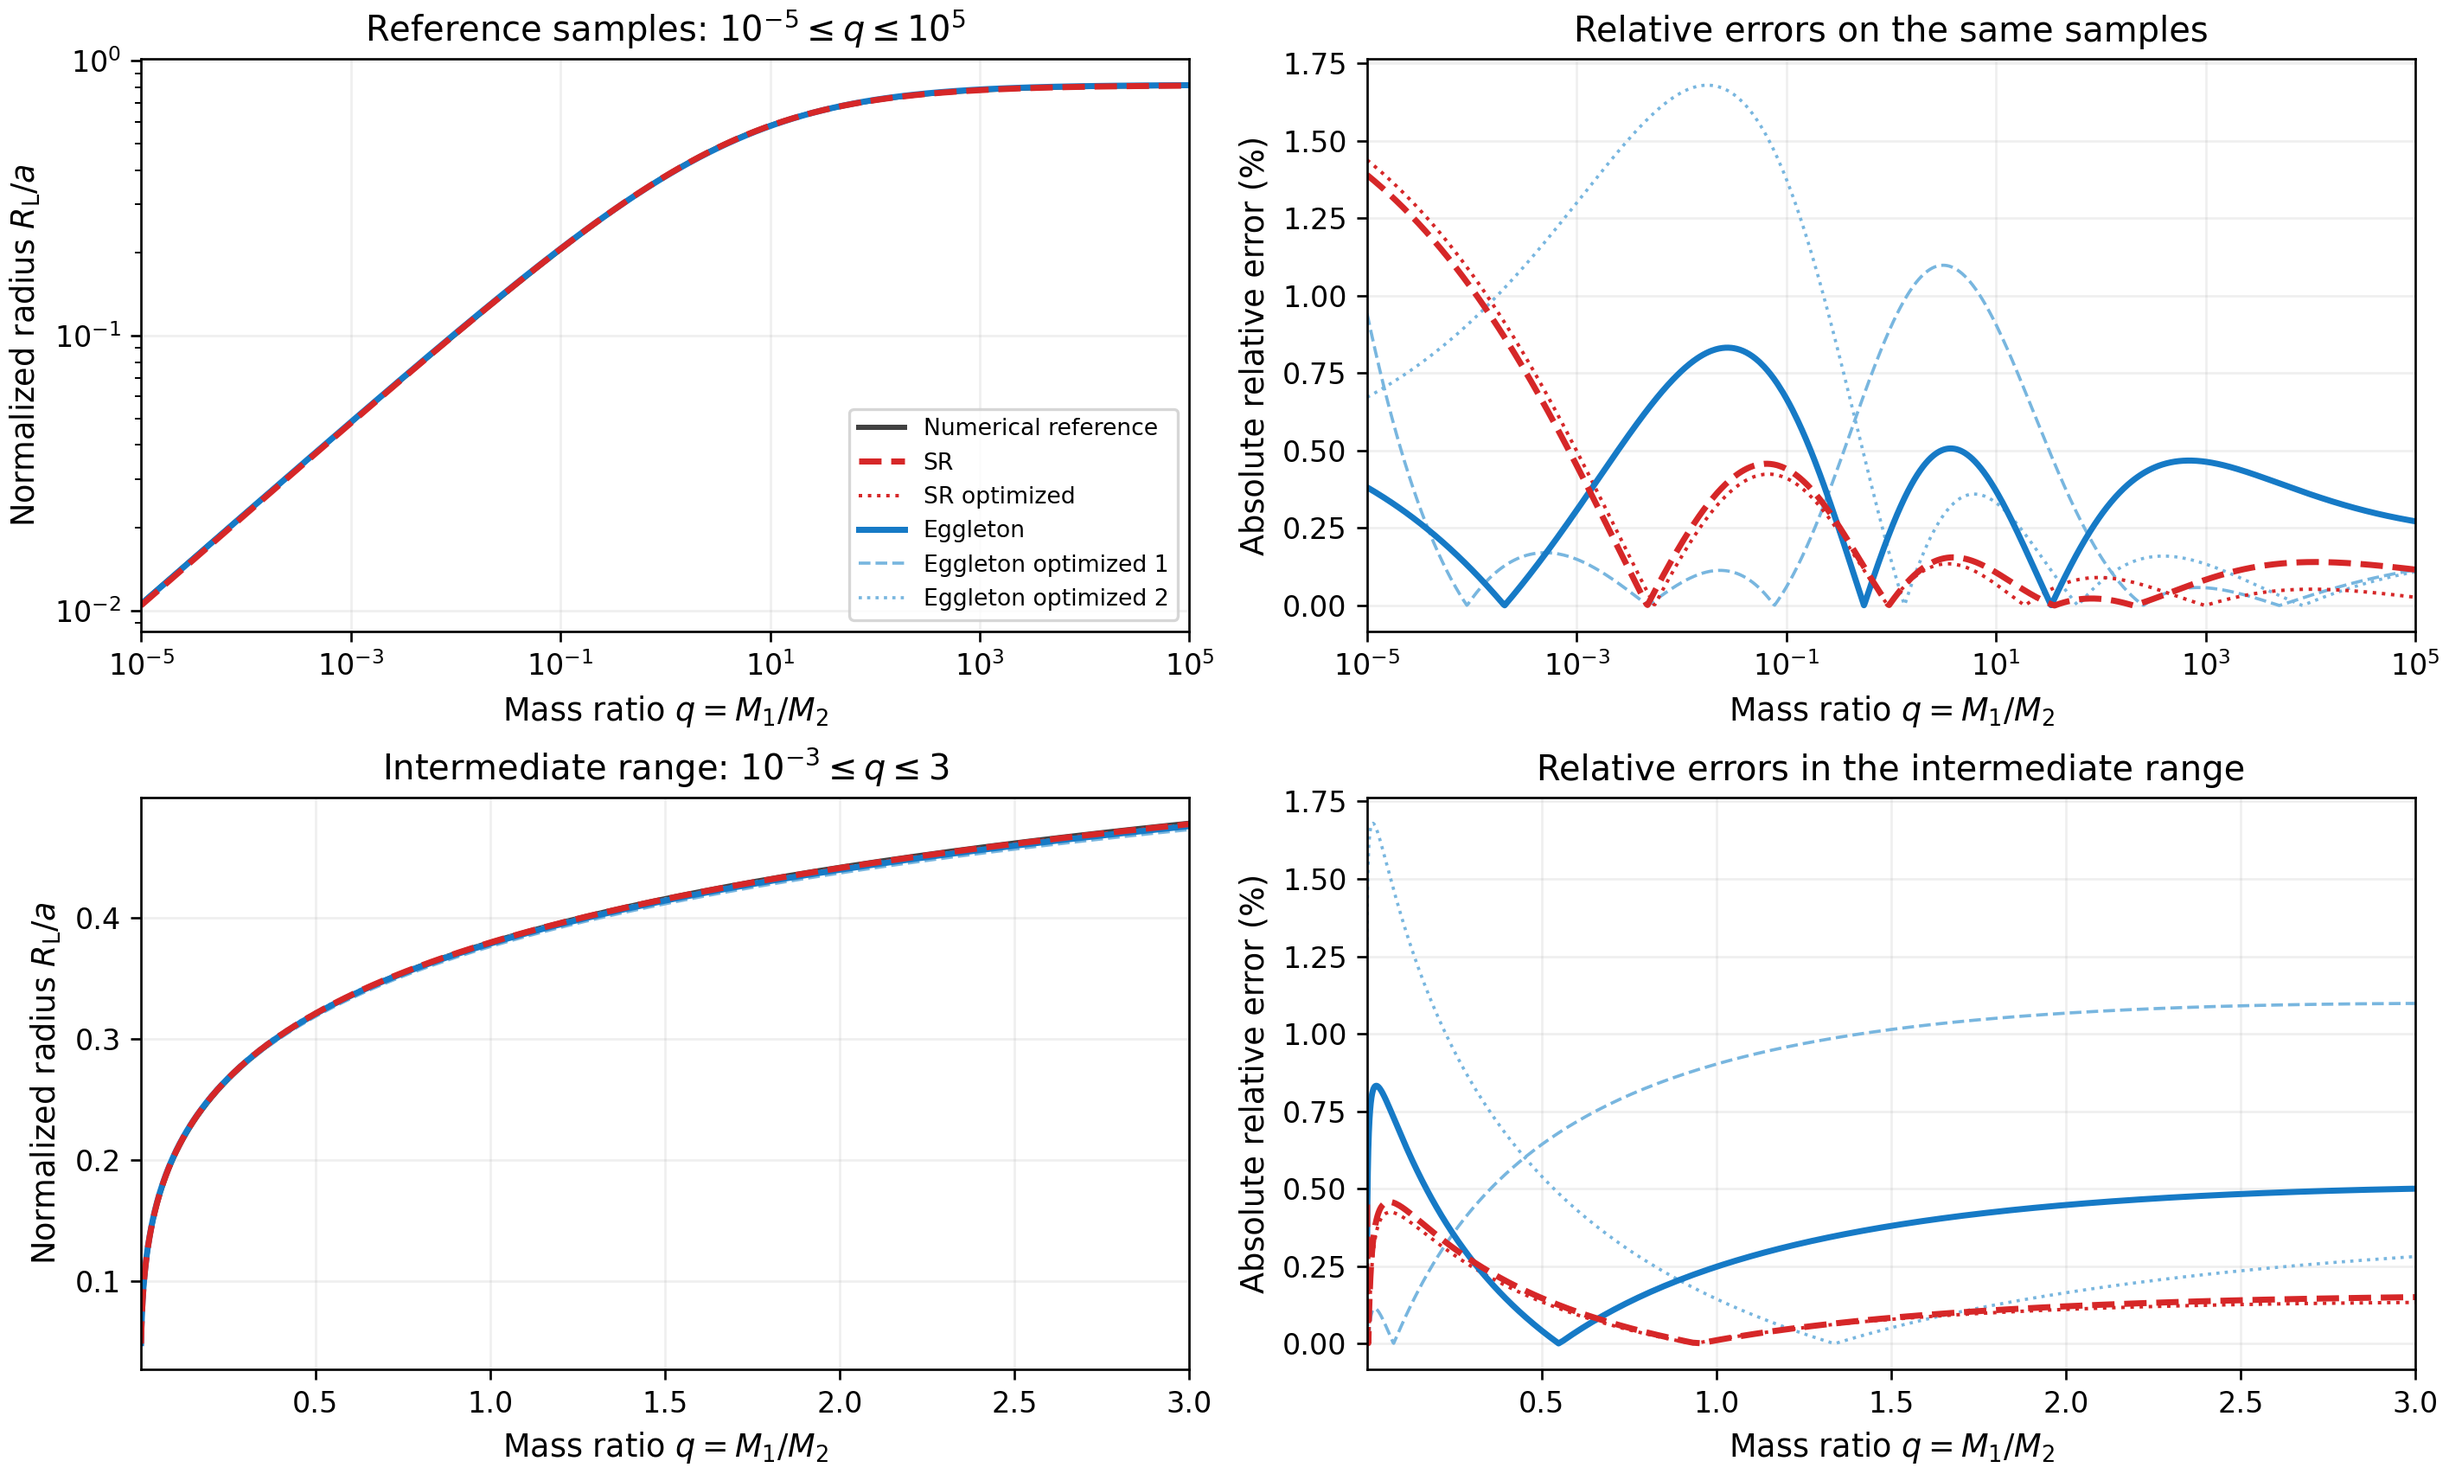
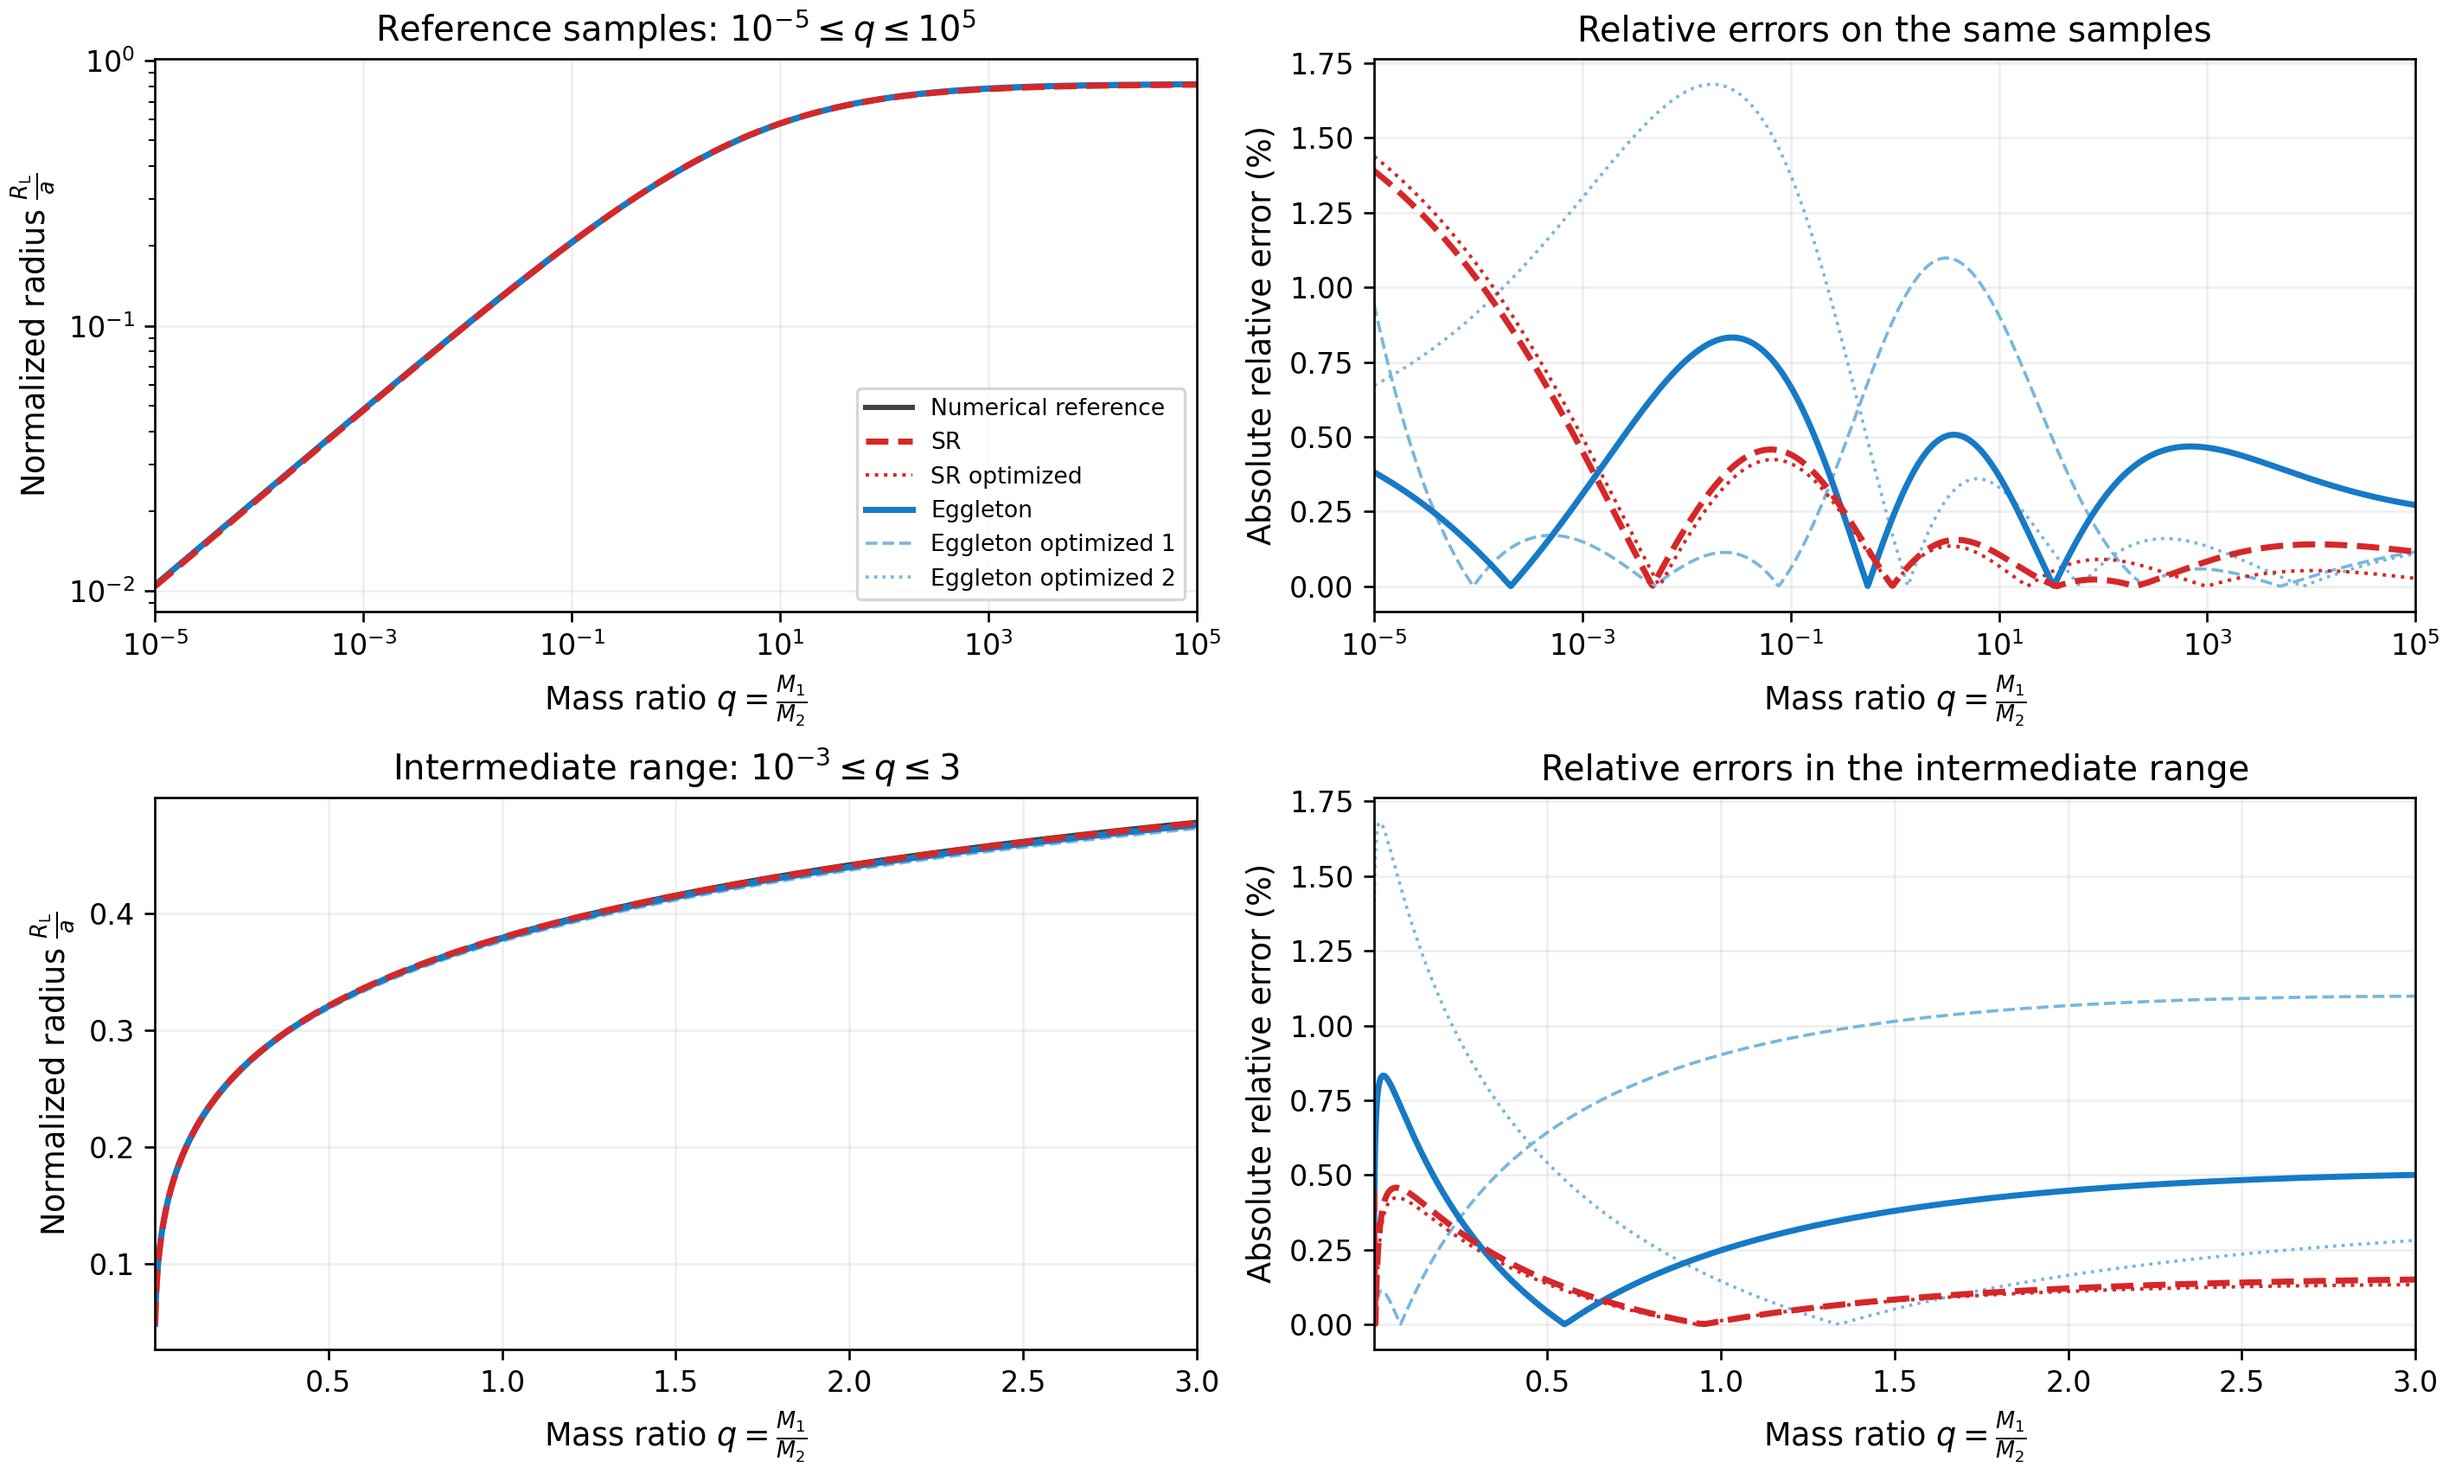
Use fraction notation in comparison figure labels

diff --git a/analysis/revision_validation.py b/analysis/revision_validation.py
@@ -125,13 +125,13 @@ def comparison_plot(q, radius):
             axes[row, 1].plot(x, 100 * np.abs(pred / y - 1), color=color, ls=linestyle, lw=lw)
         for ax in axes[row]:
             ax.grid(alpha=0.2)
-            ax.set_xlabel(r"Mass ratio $q=M_1/M_2$")
+            ax.set_xlabel(r"Mass ratio $q=\frac{M_1}{M_2}$")
             if not lower:
                 ax.set_xscale("log")
                 ax.set_xlim(1e-5, 1e5)
             else:
                 ax.set_xlim(1e-3, 3)
-        axes[row, 0].set_ylabel(r"Normalized radius $R_{\rm L}/a$")
+        axes[row, 0].set_ylabel(r"Normalized radius $\frac{R_{\rm L}}{a}$")
         axes[row, 1].set_ylabel("Absolute relative error (%)")
     axes[0, 0].set_yscale("log")
     axes[0, 0].set_title(r"Reference samples: $10^{-5}\leq q\leq10^5$")
